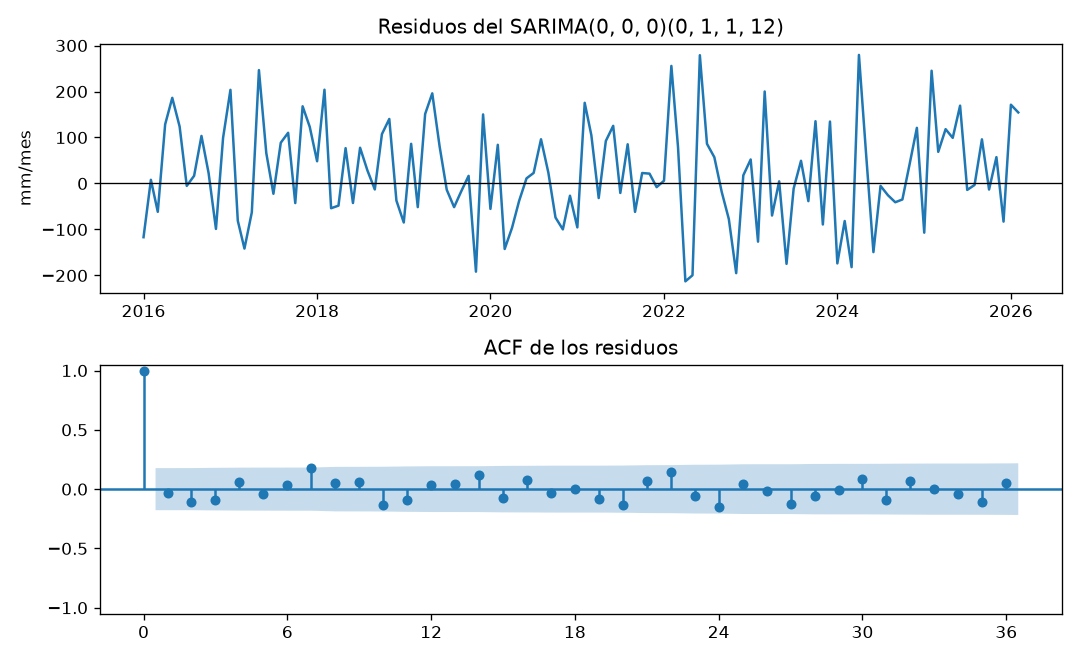
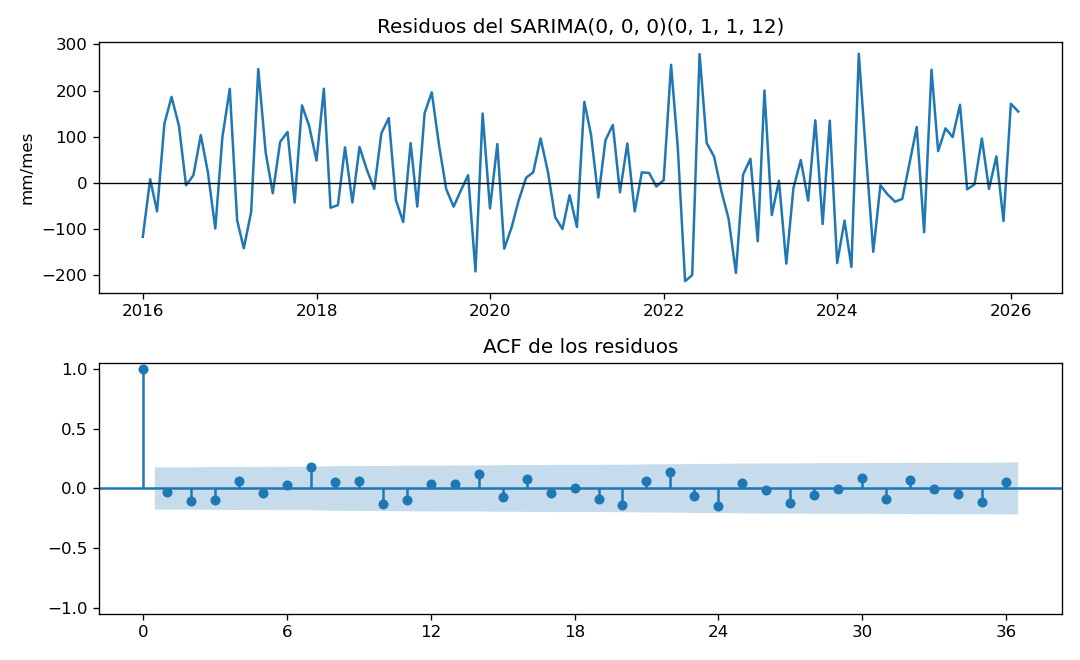
ultimas modificaciones

diff --git a/docs/informe.md b/docs/informe.md
@@ -212,7 +212,7 @@ el buen ajuste y castiga los parámetros de más:
 |---|---|
 | **SARIMA$(0,0,0)(0,1,1)_{12}$** | **382.0** |
 | SARIMA$(0,0,0)(1,1,1)_{12}$ | 383.2 |
-| SARIMA$(2,0,2)(0,1,1)_{12}$ | 383.4 |
+| SARIMA$(2,0,2)(0,1,1)_{12}$ | 384.0 |
 
 Gana el más simple, el mismo que sugería la ACF:
 
@@ -244,7 +244,7 @@ diarios señalados como posible artefacto*.
 | Modelo | RMSE | MAE | MAPE (%) |
 |---|---|---|---|
 | SARIMAX$(0,0,0)(0,1,1)_{12}$ + días del mes | **113.79** | **91.75** | 54.31 |
-| SARIMA$(0,0,0)(0,1,1)_{12}$ | 117.05 | 93.35 | 54.67 |
+| SARIMA$(0,0,0)(0,1,1)_{12}$ | 117.05 | 93.35 | 54.68 |
 | Estacional ingenuo | 154.93 | 112.39 | **43.90** |
 | Ingenuo | 219.76 | 185.33 | 121.05 |
 

diff --git a/README.md b/README.md
@@ -29,8 +29,8 @@ entrega pierde el 20 %; quien no aparezca aquí no cuenta como parte del grupo.
 
 | Nombre completo | Código | Correo institucional |
 |---|---|---|
-| | | |
-| | | |
+| Gustavo Adolfo Morales Ortiz| 1130669987 | gustavo_ado.morales@uao.edu.co|
+|Luis Hernando Montoya Muñoz |1144201150 |luis_her.montoya@uao.edu.co |
 | | | |
 
 ## Entrega
